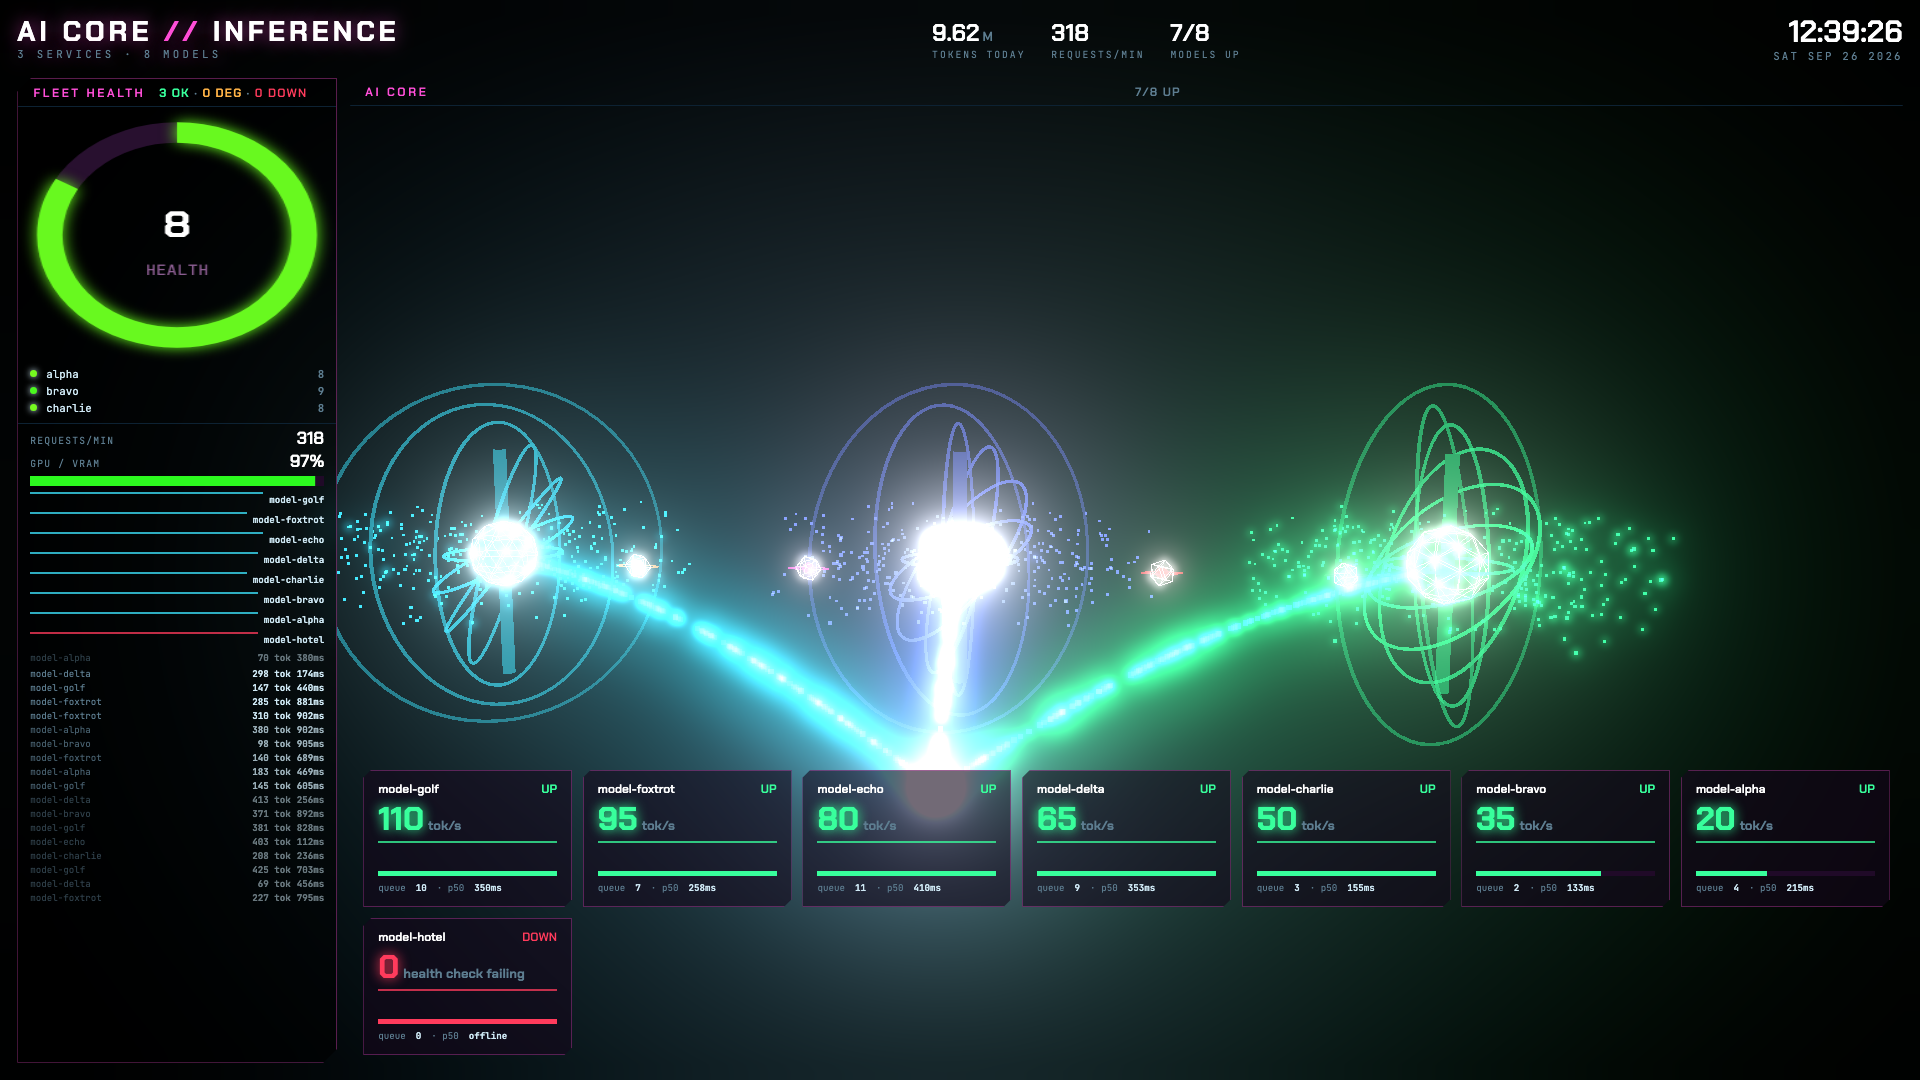
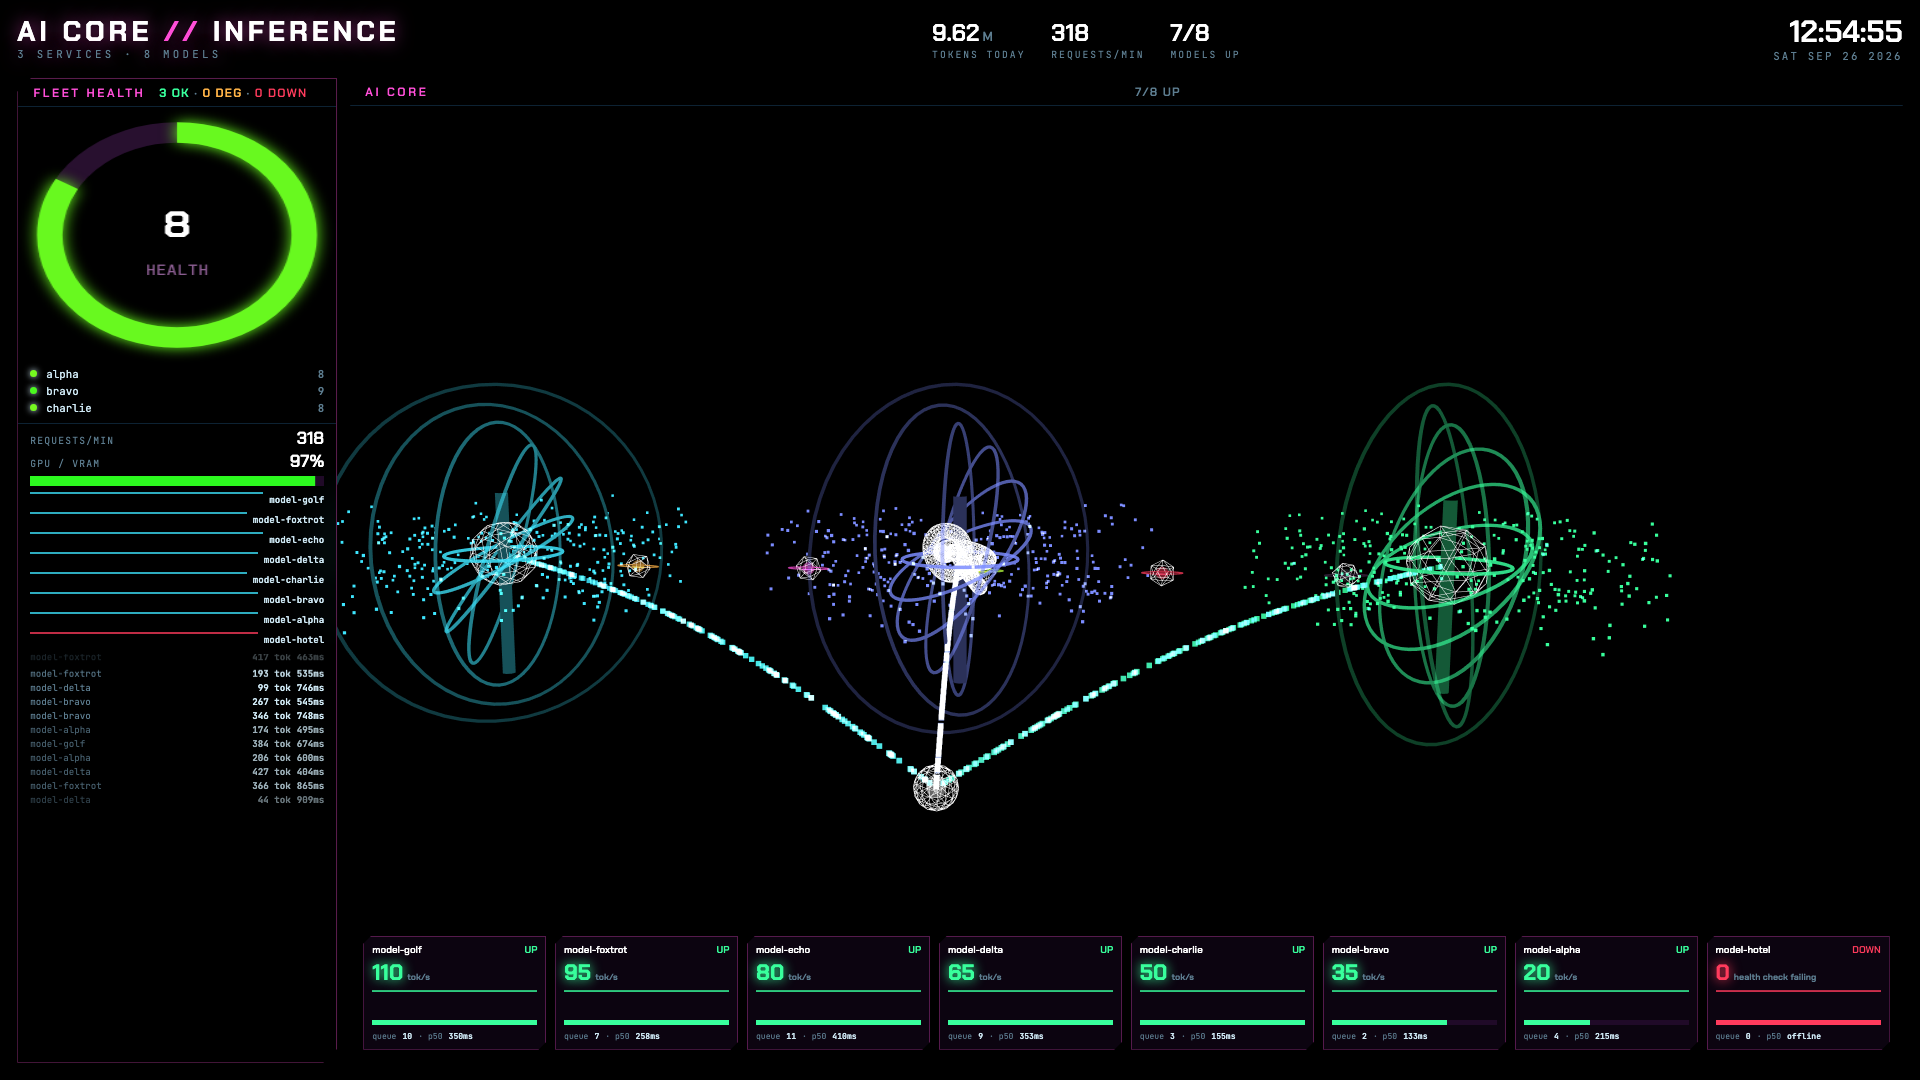
fix(mc3): one-row balanced model grid, clear of the hero scene
The model tile band used an auto-fit width-based grid, which wrapped
an orphan tile onto a second row once more than 7 models fit (e.g. 7+1
at 8 models) and grew tall enough to cover the lower third of the hero
scene. Model tiles now render in a single row with an explicit column
count sized to the live model count, with smaller type once the row
gets dense — no wrap, no orphan row, and roughly half the previous
vertical footprint, leaving clear space below the hero scene.

Assisted-by: Claude:Sonnet 5
Claude-Session: https://claude.ai/code/session_01NMFoeki5AFRtcpDmd74e6T

diff --git a/site/mc3/mc3.css b/site/mc3/mc3.css
@@ -82,8 +82,18 @@ header{grid-column:1/-1;position:relative;z-index:2;display:flex;align-items:cen
 /* max-height as a viewport unit, not a %: a percentage here resolves against the grid row's
    auto-sized (content-dependent) height, which is circular and clipped the 4th (queue/latency)
    line silently — overflow:auto with no visible scrollbar, so the row just vanished. */
-.modeltab{align-self:end;display:grid;grid-template-columns:repeat(auto-fit,minmax(200px,1fr));gap:clamp(8px,1vmin,12px);
-  padding:clamp(8px,1.2vmin,14px);max-height:clamp(160px,28vh,280px);overflow:auto}
+/* Column count is set inline per-render (mc3.js) to an explicit repeat(N,1fr) — never
+   auto-fit's width-based wrap, which orphaned a lone tile onto a second row at N=8. Always one
+   row, so the band's height (and how much of the hero scene below it covers) stays fixed
+   regardless of model count. */
+.modeltab{align-self:end;display:grid;gap:clamp(6px,.8vmin,10px);
+  padding:clamp(8px,1.2vmin,14px);max-height:clamp(110px,16vh,160px);overflow:auto}
+/* Dense mode (>5 models sharing the one row): smaller type and padding so narrow columns stay
+   legible instead of clipping/wrapping. */
+.modeltab.dense .mc{padding:6px 8px 8px}
+.modeltab.dense .mch{font-size:clamp(9px,.9vmin,11px)}
+.modeltab.dense .mctok{font-size:clamp(16px,2.2vmin,22px)}
+.modeltab.dense .mcstats{font-size:clamp(8px,.75vmin,9px);gap:6px}
 .mc{border:1px solid rgba(255,79,216,.3);background:rgba(20,6,26,.6);padding:10px 14px 12px;
   clip-path:polygon(8px 0,100% 0,100% calc(100% - 8px),calc(100% - 8px) 100%,0 100%,0 8px)}
 .mch{display:flex;justify-content:space-between;gap:8px;font:600 clamp(11px,1.1vmin,13px) var(--disp)}

diff --git a/site/mc3/mc3.js b/site/mc3/mc3.js
@@ -157,7 +157,13 @@ function renderCore() {
   const list = sample ? SAMPLE_LLM.map((m) => ({ n: m.n, up: m.state < 2, tok: m.tok })) : model.models;
   reactorList = list;
   list.forEach((m) => pushHist(m.n, m.tok));
-  $('modeltab').innerHTML = list.map((m) => {
+  const tab = $('modeltab');
+  // One row, always: an explicit column count (not auto-fit's width-based wrap) so N models
+  // never orphan a lone tile onto a second row. Compact type kicks in once the row is dense
+  // enough that auto-fit's old 200px-min columns would have wrapped anyway.
+  tab.style.gridTemplateColumns = `repeat(${Math.max(list.length, 1)},minmax(0,1fr))`;
+  tab.classList.toggle('dense', list.length > 5);
+  tab.innerHTML = list.map((m) => {
     const col = m.up ? (m.tok > 0.05 ? 'var(--green)' : 'var(--cyan)') : 'var(--red)';
     const status = m.up ? 'tok/s' : 'health check failing';
     const { queue, p50 } = standInQueueLatency(m);
